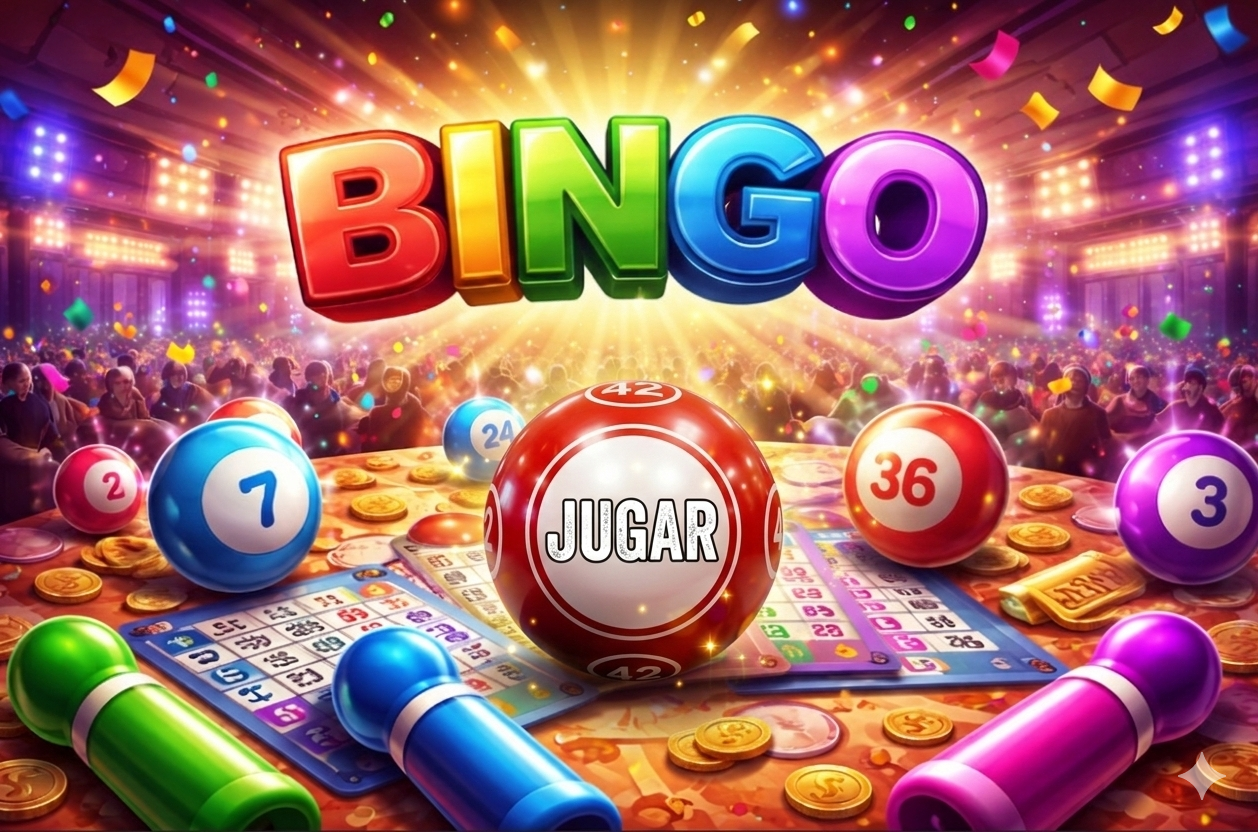
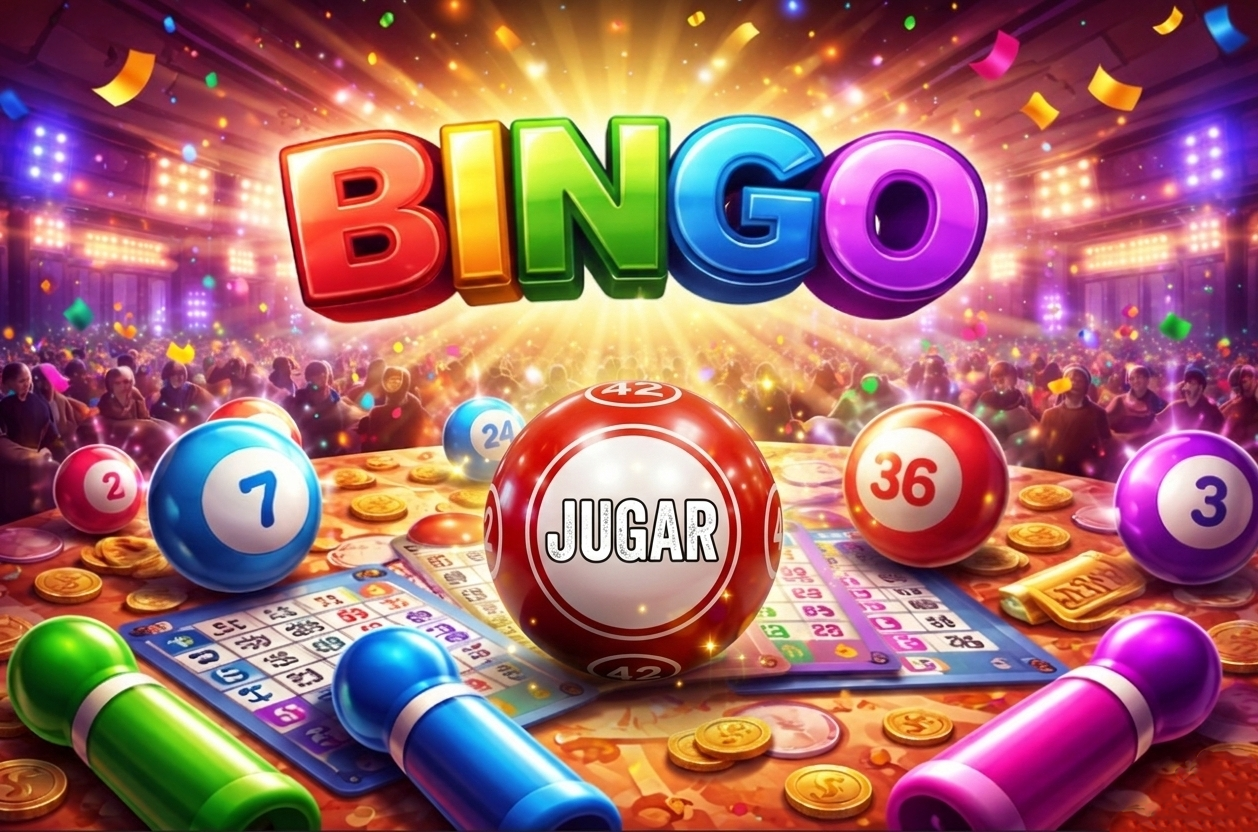
I've changed the sizes of the game window buttons to make it clearer, fixed errors with the music when returning to the home screen, and updated the initial image.

Changed region(s): [[0.868, 0.9062, 1.0, 1.0]]

diff --git a/ludobingo/src/main/java/com/daw1/model/Sonido.java b/ludobingo/src/main/java/com/daw1/model/Sonido.java
@@ -12,6 +12,7 @@ import java.io.InputStream;
 public class Sonido {
     private static Clip musicaFondo;
     private static Clip musicaLinea; // Clip separado para el sonido de línea
+    private static Clip musicaVictoria; // Clip separado para el sonido de victoria
     private static float volumenActual = 0.75f; // Volumen por defecto (0.0 a 1.0)
 
     /**
@@ -136,11 +137,28 @@ public class Sonido {
     }
 
     /**
+     * Detiene específicamente el sonido de victoria (Bingo) si sigue reproduciéndose.
+     */
+    public static void detenerBingo() {
+        if (musicaVictoria != null && musicaVictoria.isRunning()) {
+            musicaVictoria.stop();
+            musicaVictoria.close();
+        }
+    }
+
+    /**
      * Detiene la música de fondo y reproduce el sonido de victoria (Bingo).
      */
     public static void reproducirBingo() {
         detenerBGM();
-        reproducirSFX("/Audio_Victoria_1.wav");
+        detenerBingo(); // Por si acaso hubiera uno sonando
+        try {
+            musicaVictoria = cargarClip("/Audio_Victoria_1.wav");
+            if (musicaVictoria == null) return;
+            musicaVictoria.start();
+        } catch (Exception e) {
+            System.err.println("Error al reproducir sonido de victoria: " + e.getMessage());
+        }
     }
 
     /**

diff --git a/ludobingo/src/main/java/com/daw1/Vista/Cabecera.java b/ludobingo/src/main/java/com/daw1/Vista/Cabecera.java
@@ -112,8 +112,8 @@ public class Cabecera extends JPanel {
      * Configura el estilo visual y el comportamiento básico del botón AUTO.
      */
     private void configurarBotonAuto() {
-        btnAuto.setFont(new Font("Arial", Font.BOLD, 14));
-        btnAuto.setPreferredSize(new Dimension(140, 34)); // Mismo tamaño que extraer
+        btnAuto.setFont(new Font("Arial", Font.BOLD, 16));
+        btnAuto.setPreferredSize(new Dimension(160, 45)); // Mismo tamaño que extraer
         btnAuto.setFocusPainted(false);
         btnAuto.setCursor(new Cursor(Cursor.HAND_CURSOR));
         btnAuto.setEnabled(false);
@@ -149,8 +149,8 @@ public class Cabecera extends JPanel {
      * Configura el estilo visual y los efectos del botón Extraer.
      */
     private void configurarBotonExtraer() {
-        botonExtraer.setFont(new Font("Arial", Font.BOLD, 14));
-        botonExtraer.setPreferredSize(new Dimension(140, 34)); // Mismo tamaño
+        botonExtraer.setFont(new Font("Arial", Font.BOLD, 16));
+        botonExtraer.setPreferredSize(new Dimension(160, 45)); // Mismo tamaño
         botonExtraer.setFocusPainted(false);
         botonExtraer.setCursor(new Cursor(Cursor.HAND_CURSOR));
         botonExtraer.setEnabled(false);

diff --git a/ludobingo/src/main/java/com/daw1/Vista/PanelCarton.java b/ludobingo/src/main/java/com/daw1/Vista/PanelCarton.java
@@ -30,10 +30,10 @@ public class PanelCarton extends JPanel {
 
         this.iconoVacio = crearIcono(nombreImagen);
 
-        labelTitulo = new JLabel(titulo, SwingConstants.LEFT);
+        labelTitulo = new JLabel(titulo, SwingConstants.CENTER);
         labelTitulo.setFont(new Font("Arial", Font.BOLD, 14));
         labelTitulo.setForeground(colorBase);
-        labelTitulo.setBorder(BorderFactory.createEmptyBorder(0, 5, 0, 0));
+        labelTitulo.setBorder(BorderFactory.createEmptyBorder(0, 0, 0, 0));
         add(labelTitulo, BorderLayout.NORTH);
 
         grid = new JPanel(new GridLayout(3, 9, 4, 4));
@@ -43,8 +43,8 @@ public class PanelCarton extends JPanel {
         celdas = new JButton[27];
         for (int i = 0; i < 27; i++) {
             celdas[i] = new JButton("");
-            celdas[i].setFont(new Font("Arial", Font.BOLD, 18));
-            celdas[i].setPreferredSize(new Dimension(55, 55));
+            celdas[i].setFont(new Font("Arial", Font.BOLD, 22));
+            celdas[i].setPreferredSize(new Dimension(65, 65));
             celdas[i].setFocusPainted(false);
             celdas[i].setBackground(Color.WHITE);
             celdas[i].setForeground(new Color(40, 40, 40));

diff --git a/ludobingo/src/main/java/com/daw1/Vista/Botones.java b/ludobingo/src/main/java/com/daw1/Vista/Botones.java
@@ -66,11 +66,11 @@ public class Botones extends JPanel {
      */
     private JButton crearBoton(String texto, Color color) {
         JButton b = new JButton(texto);
-        b.setFont(new Font("Arial", Font.BOLD, 14));
+        b.setFont(new Font("Arial", Font.BOLD, 16));
         b.setBackground(color);
         b.setForeground(Color.WHITE);
         b.setFocusPainted(false);
-        b.setPreferredSize(new Dimension(180, 40));
+        b.setPreferredSize(new Dimension(220, 50));
         b.setCursor(new Cursor(Cursor.HAND_CURSOR));
         b.setBorder(BorderFactory.createRaisedBevelBorder());
         return b;

diff --git a/ludobingo/src/main/java/com/daw1/Vista/PanelVictoria.java b/ludobingo/src/main/java/com/daw1/Vista/PanelVictoria.java
@@ -1,5 +1,6 @@
 package com.daw1.Vista;
 
+import com.daw1.model.Sonido;
 import javax.swing.*;
 import java.awt.*;
 
@@ -62,6 +63,8 @@ public class PanelVictoria extends JPanel {
 
         // Al pulsar este boton, limpiamos todo y volvemos al menu de inicio
         btnMenu.addActionListener(e -> {
+            Sonido.detenerBingo();
+            Sonido.reproducirPantallaInicial();
             JFrame frame = (JFrame) SwingUtilities.getWindowAncestor(this);
             if (frame != null) {
                 frame.getContentPane().removeAll();
